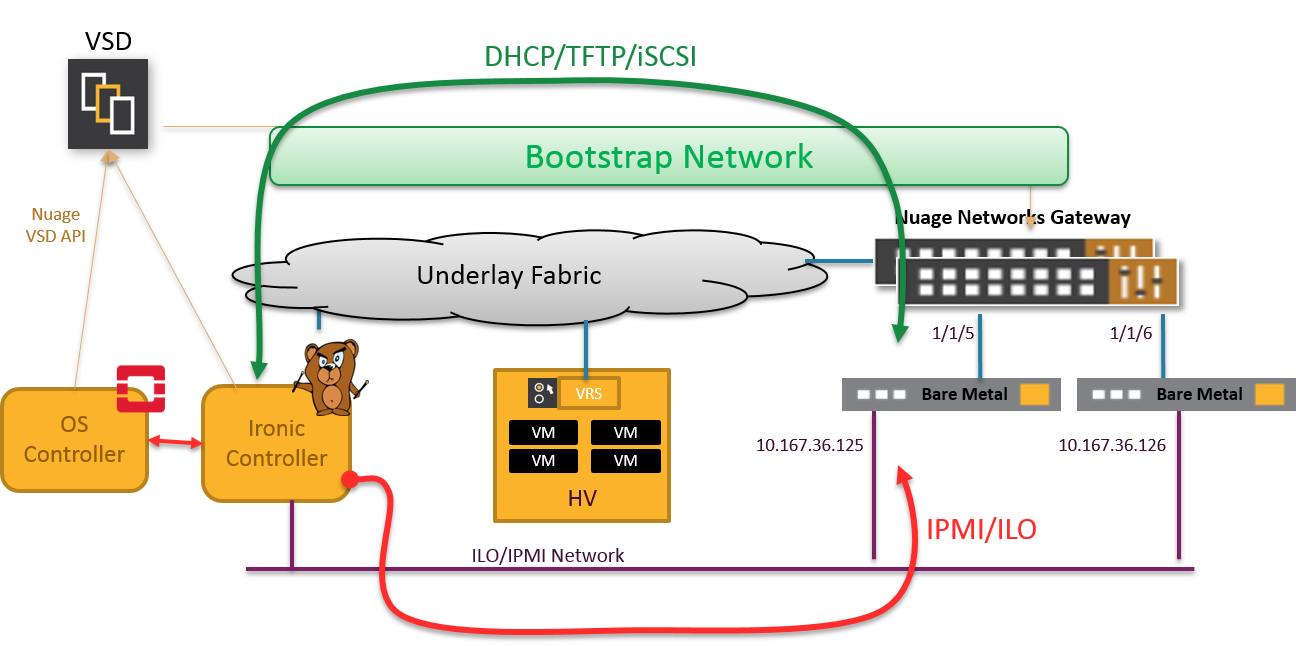
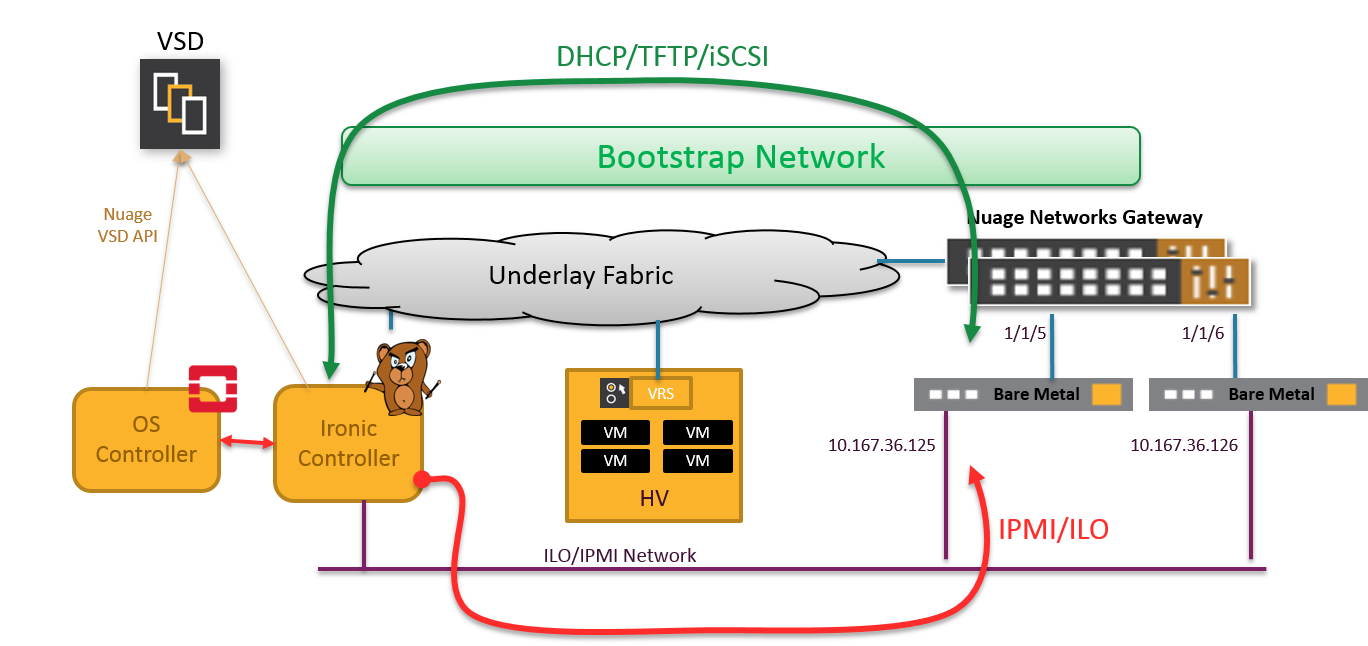
Further edits on Ironic Post

Changed region(s): [[0.0, 0.031, 0.9877, 0.9907], [0.0309, 0.3096, 0.1235, 0.3715], [0.4321, 0.9598, 0.4938, 0.9907]]

diff --git a/_posts/2017-05-19-Ironic-Integration.md b/_posts/2017-05-19-Ironic-Integration.md
@@ -1,6 +1,6 @@
 ---
 layout: post
-title: Integrating Nuage VSP with Ironic for multi-tenant management of bare-metals 
+title: Integrating Nuage VSP with Ironic for multi-tenant management of bare-metals (UNDER REVIEW)
 author: Dieter De Moitie, Jonas Vermeulen
 callout_image: nuage-community-header.jpg
 tags: Openstack Ironic Liberty Bare Metal BareMetal 
@@ -62,17 +62,17 @@ For redundancy, two VSGs are combined in a Redundancy Group with MCLAG-interface
 
 The workflow to boot a server dynamically to a tenant network can be described in following two steps
 
-### 0. Enroll the server as a node in Ironic
+### Initial enrollment of the server as a node in Ironic
 
-Each bare metal first has to be provisioned as an Ironic Node. This is an administrative task, after which Ironic can use the IPMI interface of the bare metal server to power on/power off the machine and an image can be transferred to the node. 
-As part of the enrollment, properties such as boot method, switch network connection, IPMI address, etc. can be provided.
+Each bare metal first has to be provisioned as an Ironic Node. This is an administrative task to ensure the Openstack Compute service sees the available hardware. After enrollment Ironic can use the IPMI interface of the bare metal server to power on/power off the machine and a user image can be transferred to the node. 
+As part of the enrollment, properties such as boot method, switch network connection, IPMI address, etc. need to be provided.
 
 
 ### 1. Power up in Bootstrapping Network
 
 The Ironic node will use the IPMI interface of a bare metal server to power on/power off the machine upon creation/deletion of a bare metal server. Initially, the bare metal server will be connected to a Bootstrapping Network. It will use PXE boot to get the deployment image from the Ironic node.  Once booted, the deployment image will download and install the final user image.
 
-![Power up in bootstrap network][ironic-bootstrap] 
+![Power up in bootstrap network][ironic-bootstrap-nw] 
 
 ### 2. Mapping to Final Overlay Network
 
